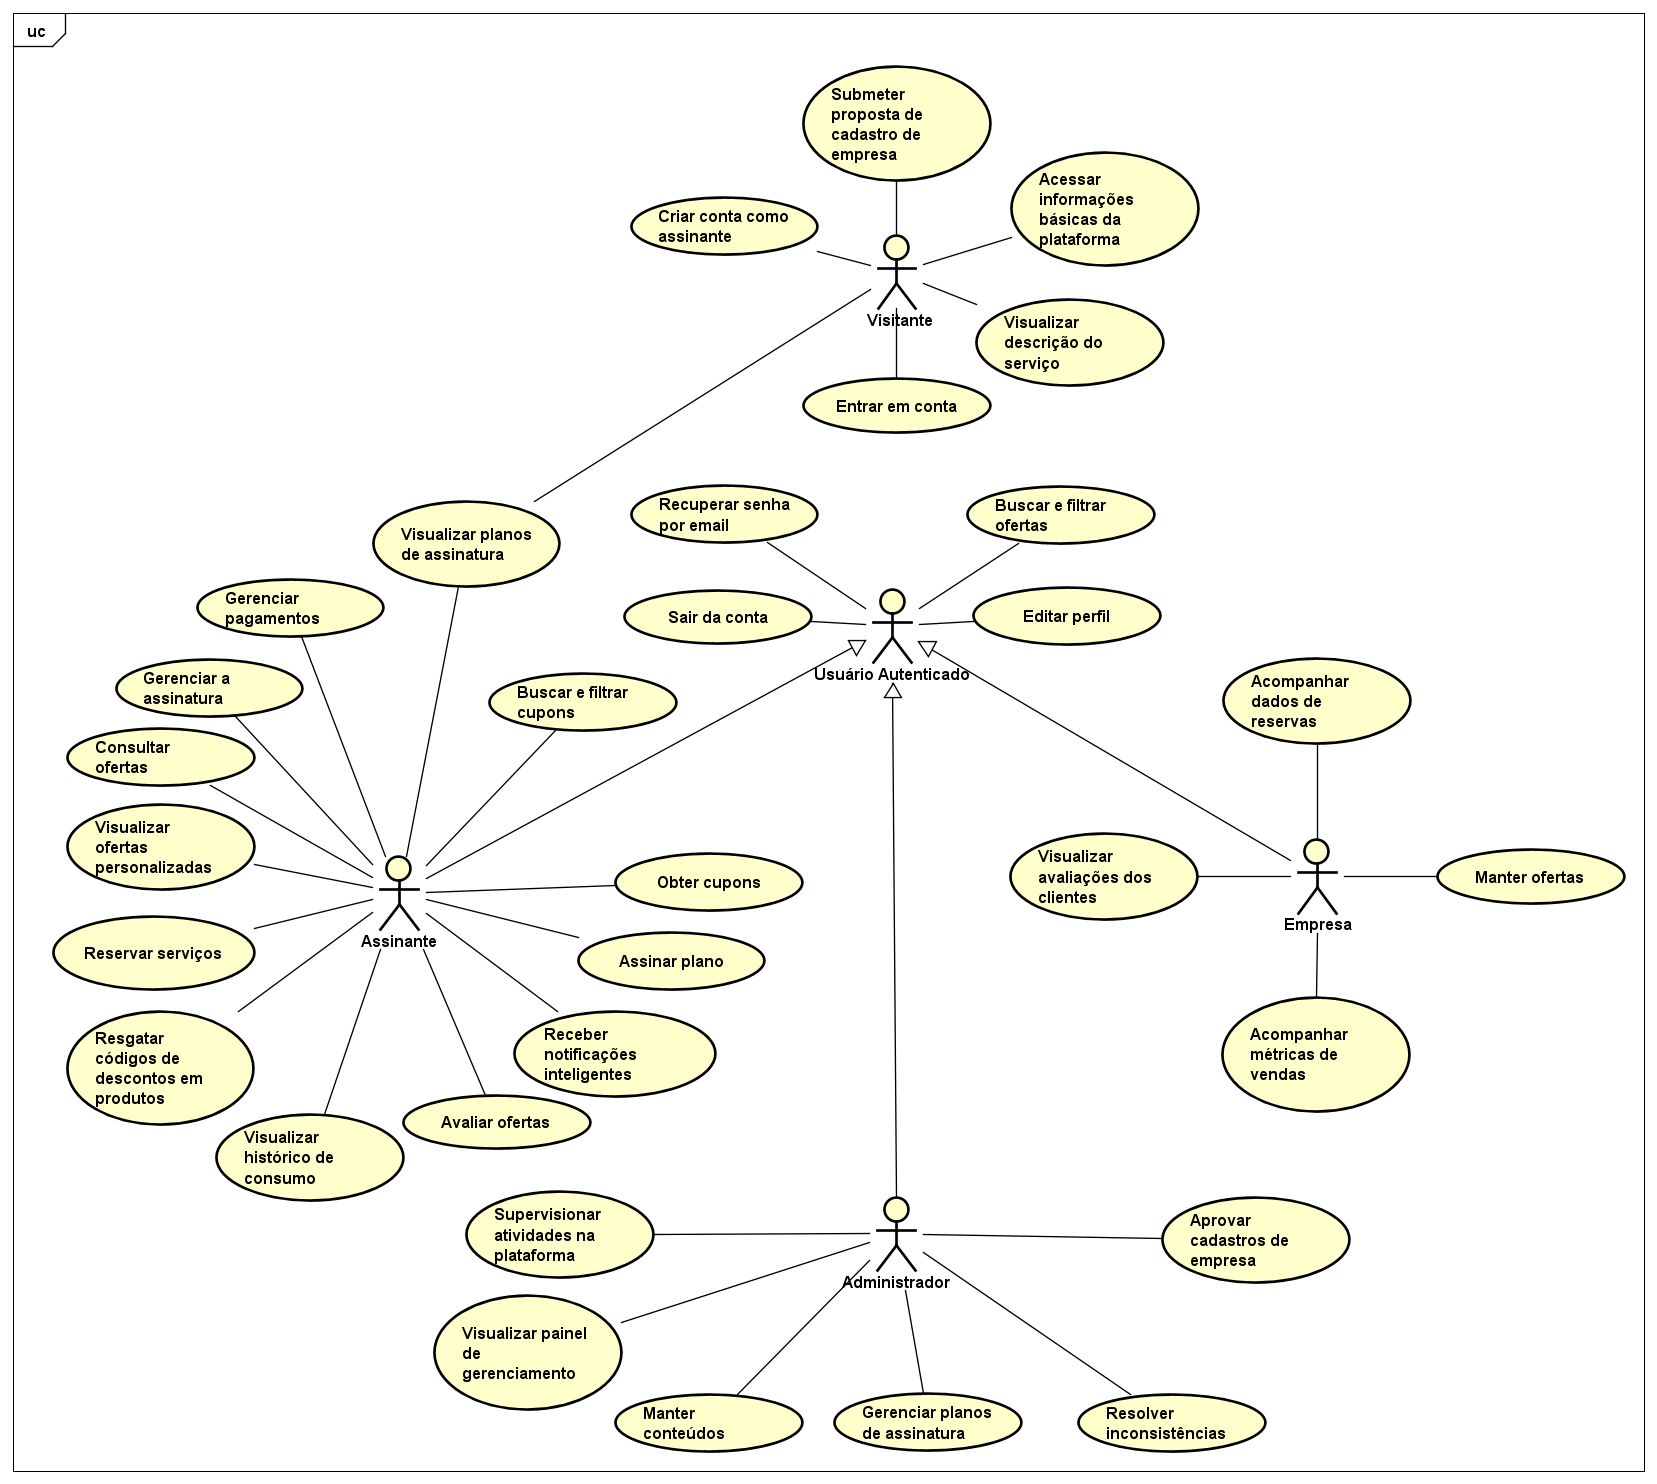
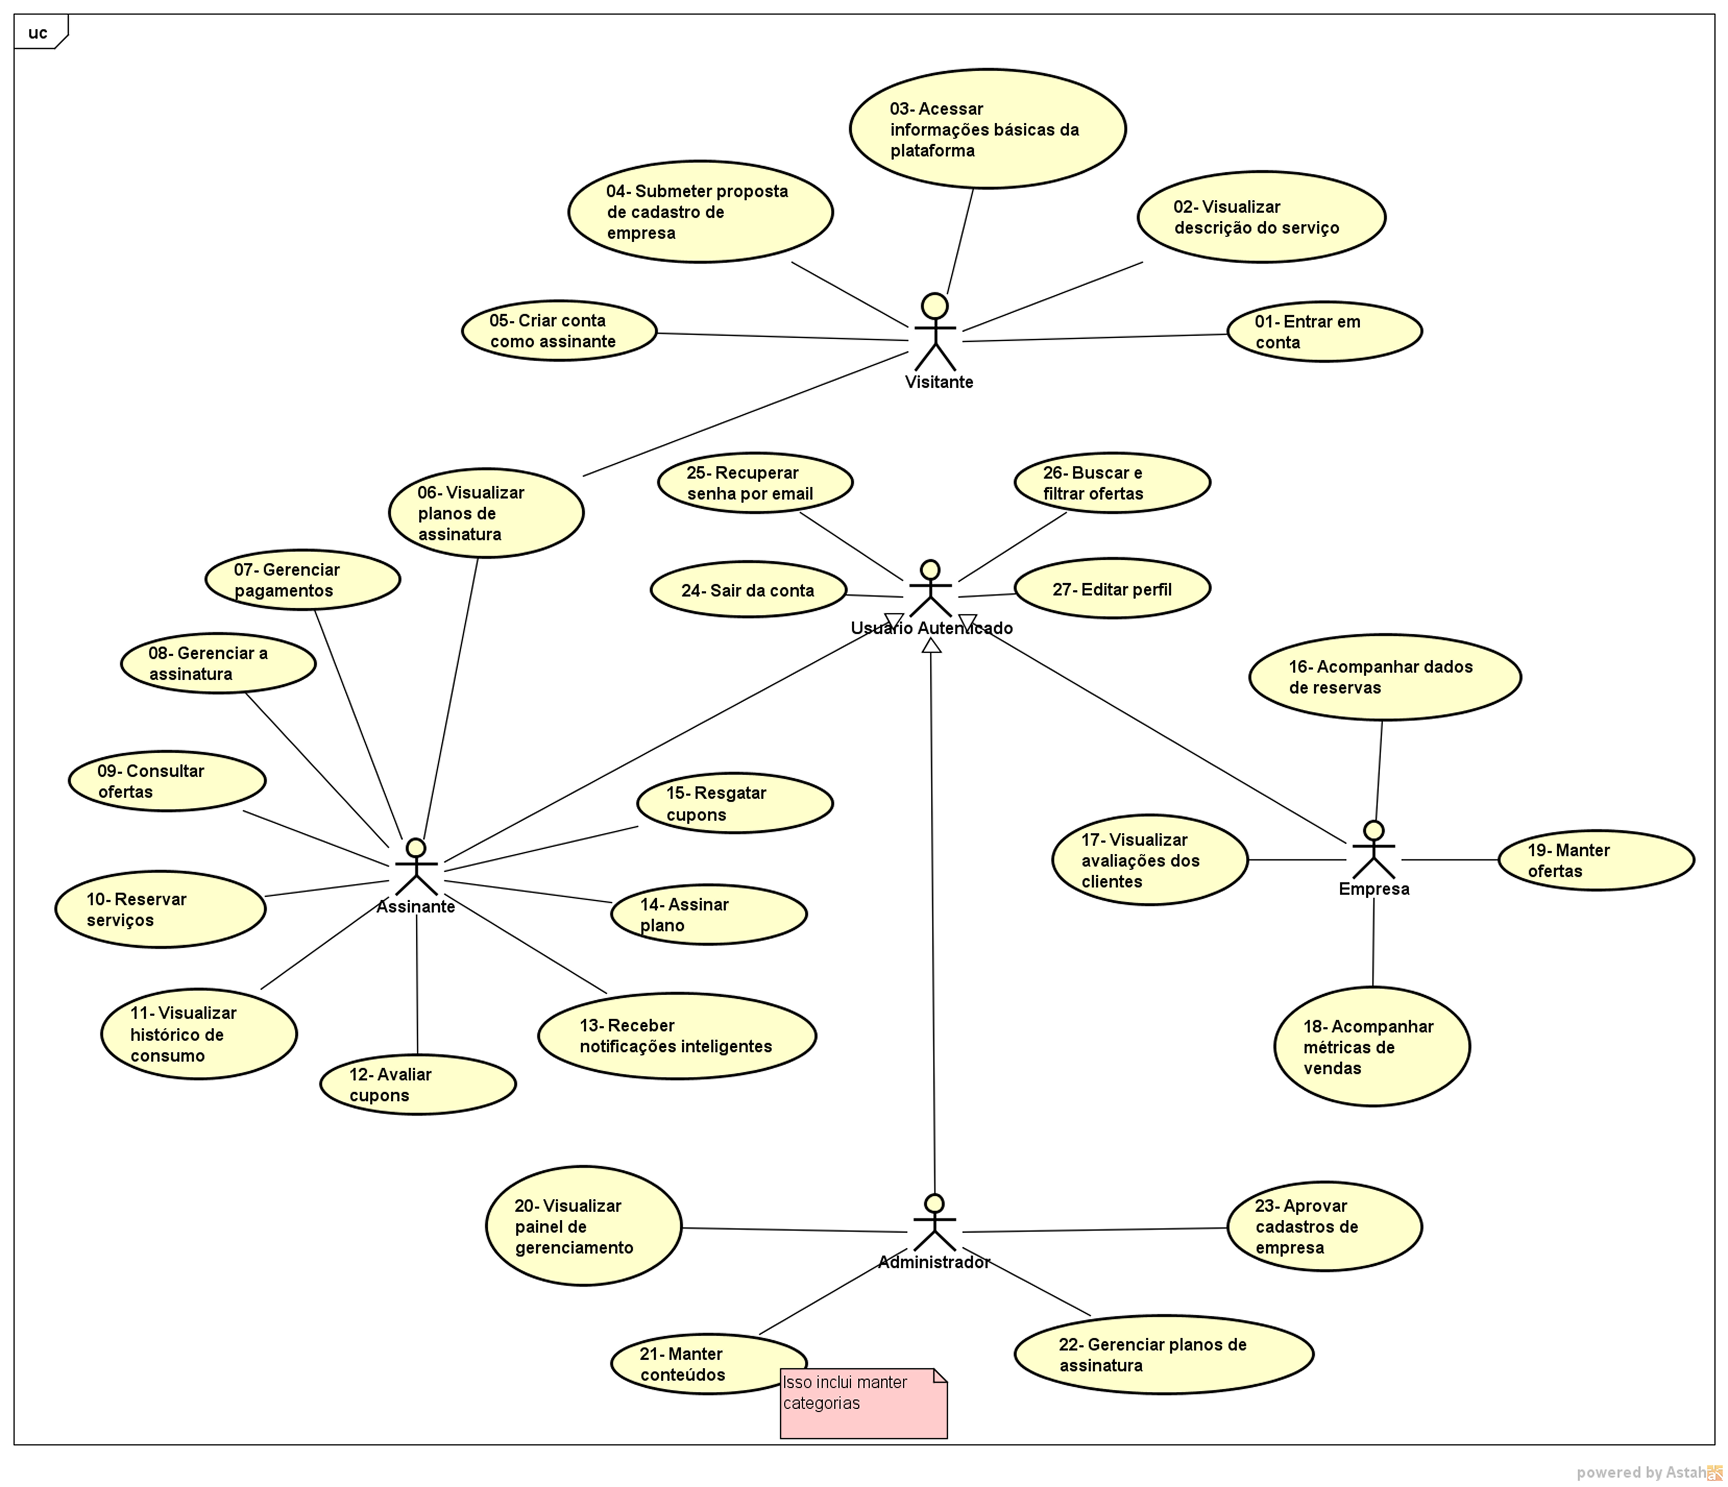
Atualizações em detalhamentos de caso de uso e nos diagramas de caso de uso, de classes de modelo e de ER.

diff --git a/docs/casos_de_uso/modelo_de_cdu.md b/docs/casos_de_uso/modelo_de_cdu.md
@@ -4,9 +4,10 @@
 
 |  Data  | Versão | Descrição | Autor |
 |:-------|:-------|:----------|:------|
-| 16/05/2025 | **1.00** | Versão Inicial  | Fellipe Aleixo |
-| 26/05/2025 | **2.00** | Versão com detalhamentos iniciais | Amanda Lara, Clara Teodósio, Heitor Barboza e Lucas Cássio  |
-| 30/06/2025 | **3.00** | Atualização da imagem do diagrama de casos de uso  | Heitor Barboza e Lucas Cássio |
+| 16/05/2025 | 1.0 | Versão Inicial  | Fellipe Aleixo |
+| 26/05/2025 | 2.0 | Versão com detalhamentos iniciais | Amanda Lara, Clara Teodósio, Heitor Barboza e Lucas Cássio  |
+| 30/06/2025 | 3.0 | Atualização da imagem do diagrama de casos de uso  | Heitor Barboza e Lucas Cássio |
+| 02/11/2025 | 4.0 | Atualização na listagem dos detalhamentos e da imagem do diagrama de casos de uso  | Heitor Barboza |
 | - | - | - | - |
 
 ## 1. Diagrama de Casos de Uso
@@ -15,8 +16,13 @@
 
 ## 2. Listagem dos detalhamentos dos casos de uso
 
-1. [CDU-001 - Criar conta como assinante](detalhamentos/cdu_001.md)
-2. [CDU-003 - Reservar serviço](detalhamentos/cdu_002.md)
-3. [CDU-002 - Gerar cupom](detalhamentos/cdu_003.md)
-4. [CDU-004 - Aprovar cadastro de empresa](detalhamentos/cdu_004.md)
-5. [CDU-005 - Resgatar cupom](detalhamentos/cdu_005.md)
+1. [CDU-002 - Visualizar descrição do serviço](detalhamentos/cdu_002.md)
+2. [CDU-005 - Criar conta como assinante](detalhamentos/cdu_005.md)
+3. [CDU-009 - Consultar ofertas](detalhamentos/cdu_009.md)
+4. [CDU-010 - Reservar serviços](detalhamentos/cdu_010.md)
+5. [CDU-011 - Visualizar histórico de consumo](detalhamentos/cdu_011.md)
+6. [CDU-012 - Avaliar cupons](detalhamentos/cdu_12.md)
+7. [CDU-014 - Assinar plano](detalhamentos/cdu_14.md)
+8. [CDU-015 - Resgatar cupons](detalhamentos/cdu_015.md)
+9. [CDU-017 - Visualizar avaliação dos clientes](detalhamentos/cdu_015.md)
+10. [CDU-023 - Aprovar cadastro de empresas](detalhamentos/cdu_023.md)

diff --git a/docs/casos_de_uso/detalhamentos/cdu_014.md b/docs/casos_de_uso/detalhamentos/cdu_014.md
@@ -1,0 +1,67 @@
+# Assinar plano
+
+## Histórico de Revisões
+
+| Data | Versão | Descrição | Autor |
+| :--: | :----: | :-------: | :---: |
+| 02/11/2025 | 1.0 | Versão Inicial | Ermesson Andrade |
+
+## 1. Resumo
+
+O usuário assinante pode assinar um dado plano.
+
+## 2. Atores
+
+- Principal: Assinante
+
+## 3. Pré-condições
+
+- Forma de pagamento válida
+- Assinante com nenhuma assinatura vigente
+
+## 4. Pós-condições
+
+- Dados de assinatura devidamente persistidos
+
+## 5. Fluxos de Eventos
+
+### 5.1 Fluxo Principal
+
+| Ator | Sistema |
+| --- | --- |
+| 0.  Na página inicial, o usuário empresa clica no botão de "escolher plano" no card do plano desejado.  | - |
+| - | 1.  O sistema o direciona ao gateway de pagamento externo.  |
+| 2.  O usuário efetiva o pagamento no gateway integrado.  | - |
+| - | 3.  O sistema recebe a confirmação de pagamento do gateway externo e persiste os dados da assinatura, ativando-a.  |
+
+### 5.2 Fluxos de Exceção
+
+#### 5.2.1 Plano não encontrado
+
+| Ator | Sistema |
+| --- | --- |
+| - | 1.1. O sistema exibe uma mensagem indicando que o plano não foi encontrado.  |
+|  | (retorna ao passo 0) |
+
+#### 5.2.2 Sessão expirada
+
+| Ator | Sistema |
+| --- | --- |
+| - | 1.2. O encaminha a página de login indicando que a sessão expirou.  |
+
+## 5.3 Fluxos Alternativos
+
+### 5.3.1 Pagamento cancelado
+
+| Ator | Sistema |
+| :--: | :-----: |
+| 3.3. O sistema não recebe a confirmação do gateway e cancela a operação. | - |
+| - | (retorna ao passo 0) ||
+
+## 6. Protótpos de Interface
+
+<<...>>
+
+## 7. Diagrama de Classes de Domínio para este CDU
+
+<<...>>

diff --git a/docs/casos_de_uso/detalhamentos/cdu_017.md b/docs/casos_de_uso/detalhamentos/cdu_017.md
@@ -1,0 +1,57 @@
+# Visualizar Avaliações dos Clientes
+
+## Histórico de Revisões
+
+| Data | Versão | Descrição | Autor |
+| :--: | :----: | :-------: | :---: |
+| 02/11/2025 | 1.0 | Versão Inicial | Clara Teodósio |
+
+## 1. Resumo
+
+O usuário empresa pode conferir as avaliações submetidas pelos assinantes às suas ofertas.
+
+## 2. Atores
+
+- Principal: Empresa
+
+## 3. Pré-condições
+
+- Empresa com cadastro aprovado
+- Oferta(s) devidamente cadastrada(s)
+
+## 4. Pós-condições
+
+## 5. Fluxos de Eventos
+
+### 5.1 Fluxo Principal
+
+| Ator | Sistema |
+| --- | --- |
+| 0.  Na página de gestão de ofertas, o usuário empresa clica para consultar as avaliações de uma oferta específica.  | - |
+| - | 1.  O sistema o direciona a uma página contendo todas as avaliações submetidas.  |
+
+### 5.2 Fluxos de Exceção
+
+#### 5.2.1 Oferta não encontrada
+
+| Ator | Sistema |
+| --- | --- |
+| - | 1.1 O sistema exibe uma mensagem indicando que a oferta não foi encontrada.  |
+|  | (retorna ao passo 0) |
+
+## 5.3 Fluxos Alternativos
+
+### 5.3.1 Nenhuma avaliação submetida
+
+| Ator | Sistema |
+| :--: | :-----: |
+| 1.2. O sistema o direciona a uma página contendo uma mensagem informando que nenhuma avaliação foi submetida à oferta | - |
+| - | (retorna ao passo 0) ||
+
+## 6. Protótpos de Interface
+
+<<...>>
+
+## 7. Diagrama de Classes de Domínio para este CDU
+
+<<...>>

diff --git a/docs/casos_de_uso/detalhamentos/cdu_015.md b/docs/casos_de_uso/detalhamentos/cdu_015.md
@@ -4,9 +4,10 @@
 
 | Data | Versão | Descrição | Autor |
 | :--: | :----: | :-------: | :---: |
-| 20/05 | 1.0 | Versão inicial | Heitor Barboza |
-| 08/07 | 2.0 | Atualização para implementação | Amanda Lara |
-| 28/09 | 3.0 | Revisão para resolução de conflitos e atualização do código do CDU | Heitor Barboza |
+| 20/05/2025 | 1.0 | Versão inicial | Heitor Barboza |
+| 08/07/2025 | 2.0 | Atualização para implementação | Amanda Lara |
+| 28/09/2025 | 3.0 | Revisão para resolução de conflitos e atualização do código do CDU | Heitor Barboza |
+| 02/11/2025 | 4.0 | Correção de datas | Heitor Barboza |
 | - | - | - | - |
 
 ## 1. Resumo
@@ -29,9 +30,6 @@ O usuário assinante gera cupons a partir de ofertas disponibilizadas para o seu
 ## 5. Fluxos de Eventos
 
 ### 5.1 Fluxo Principal
-
-
-
 
 | Ator | Sistema |
 | --- | --- |

diff --git a/docs/casos_de_uso/detalhamentos/cdu_002.md b/docs/casos_de_uso/detalhamentos/cdu_002.md
@@ -1,10 +1,11 @@
-# Reservar serviço
+# Visualizar descrição do serviço
 
 ## Histórico de Revisões
 
 | Data | Versão | Descrição | Autor |
 | :--: | :----: | :-------: | :---: |
-| 28/09 | 1.0 | Versão inicial | Heitor Barboza |
+| 28/09/2025 | 1.0 | Versão inicial | Heitor Barboza |
+| 02/11/2025 | 2.0 | Adequação e correção de datas | Heitor Barboza |
 | - | - | - | - |
 
 ## 1. Resumo
@@ -33,18 +34,6 @@ O cliente visitante pode visualizar a descrição do funcionamento, objetivo e v
 ## 5.3 Fluxos Alternativos
 
 ## 6. Protótpos de Interface
-
-### Tela de exibição das ofertas
-
-<<...>>
-
-### Tela de exibição de detalhes da oferta
-
-<<...>>
-
-### Tela de confirmação da emissão do cupom
-
-<<...>>
 
 ## 7. Diagrama de Classes de Domínio para este CDU
 

diff --git a/docs/casos_de_uso/detalhamentos/cdu_011.md b/docs/casos_de_uso/detalhamentos/cdu_011.md
@@ -4,8 +4,9 @@
 
 | Data | Versão | Descrição | Autor |
 | :--: | :----: | :-------: | :---: |
-| 01/07 | 1.0 | Versão inicial | Lucas Cássio |
-| 28/09 | 2.0 | Revisão de resumo, pré-condições e fluxos e atualização do código do caso de uso | Heitor Barboza |
+| 01/07/2025 | 1.0 | Versão inicial | Lucas Cássio |
+| 28/09/2025 | 2.0 | Revisão de resumo, pré-condições e fluxos e atualização do código do caso de uso | Heitor Barboza |
+| 02/11/2025 | 3.0 | Correção de datas | Heitor Barboza |
 
 ## 1. Resumo
 

diff --git a/docs/casos_de_uso/detalhamentos/cdu_010.md b/docs/casos_de_uso/detalhamentos/cdu_010.md
@@ -4,9 +4,9 @@
 
 | Data | Versão | Descrição | Autor |
 | :--: | :----: | :-------: | :---: |
-| 20/05 | 1.0 | Versão inicial | Heitor Barboza |
-| 28/09 | 2.0 | Revisão do resumo e atualização do código do caso de uso | Heitor Barboza |
-| - | - | - | - |
+| 20/05/2025 | 1.0 | Versão inicial | Heitor Barboza |
+| 28/09/2025 | 2.0 | Revisão do resumo e atualização do código do caso de uso | Heitor Barboza |
+| 02/11/2025 | 3.0 | Correção de datas | Heitor Barboza |
 
 ## 1. Resumo
 

diff --git a/docs/casos_de_uso/detalhamentos/cdu_009.md b/docs/casos_de_uso/detalhamentos/cdu_009.md
@@ -1,12 +1,12 @@
-# Buscar e Filtrar Ofertas
+# Consultar Ofertas
 
 ## Histórico de Revisões
 
 | Data | Versão | Descrição | Autor |
 | :--: | :----: | :-------: | :---: |
-| 13/07 | 1.0 | Versão inicial | Heitor Barboza |
-| 28/09 | 1.0 | Revisão | Heitor Barboza |
-| - | - | - | - |
+| 13/07/2025 | 1.0 | Versão inicial | Heitor Barboza |
+| 28/09/2025 | 2.0 | Revisão | Heitor Barboza |
+| 02/11/2025 | 3.0 | Adequação e correção de datas | Heitor Barboza |
 
 ## 1. Resumo
 

diff --git a/docs/casos_de_uso/detalhamentos/cdu_012.md b/docs/casos_de_uso/detalhamentos/cdu_012.md
@@ -1,15 +1,11 @@
 # Avaliar cupom
 
-Status: Versão final
-Última edição: 29 de setembro de 2025 14:38
-CDU: 12
-Responsável: Clara Teodósio de Morais
-
 ## Histórico de Revisões
 
 | Data | Versão | Descrição | Autor |
 | :--: | :----: | :-------: | :---: |
-| 29/09 | 1.0 | Versão final | Clara Teodósio |
+| 29/09/2025 | 1.0 | Versão inicial | Clara Teodósio |
+| 02/11/2025 | 2.0 | Correção de datas e adequação de nome | Heitor Barboza |
 
 ## 1. Resumo
 

diff --git a/docs/modelos_de_dominio/modelo_dominio.md b/docs/modelos_de_dominio/modelo_dominio.md
@@ -4,7 +4,8 @@
 
 |  Data  | Versão | Descrição | Autor |
 |:-------|:-------|:----------|:------|
-| 30/06/2025 | **1.00** | Versão Inicial  | Fellipe Aleixo e Heitor Barboza |
+| 30/06/2025 | 1.00 | Versão Inicial  | Fellipe Aleixo e Heitor Barboza |
+| 02/11/2025 | 2.00 | Revisão dos atributos e tradução para a língua inglesa  | Heitor Barboza |
 | - | - | - | - |
 
 ## Diagrama de Modelos de Domínio

diff --git a/docs/er/modelo_er.md b/docs/er/modelo_er.md
@@ -6,6 +6,7 @@
 |:-------|:-------|:----------|:------|
 | 16/05/2025 | **1.00** | Versão Inicial  | Fellipe Aleixo |
 | 30/06/2025 | **2.00** | Correção com base nas classes de domínio | Heitor Barboza |
+| 02/11/2025 | **3.00** | Nova correção com base nas classes de domínio e tradução para a língua inglesa | Heitor Barboza |
 | - | - | - | - |
 
 ## Diagrama de Entidade e Relacionamentos

diff --git a/docs/casos_de_uso/detalhamentos/cdu_023.md b/docs/casos_de_uso/detalhamentos/cdu_023.md
@@ -5,6 +5,7 @@
 | :--: | :----: | :-------: | :---: |
 | 12/05 | 1.0 | Adição das seções de resumo, atores e condições  | Lucas Cássio |
 | 28/09 | 2.0 | Revisão das seções de resumo, atores e condições e atualização do código do caso de uso  | Heitor Barboza |
+| 02/11 | 3.0 | Adequação e correção de datas | Heitor Barboza |
 | - | - | - | - |
 
 
